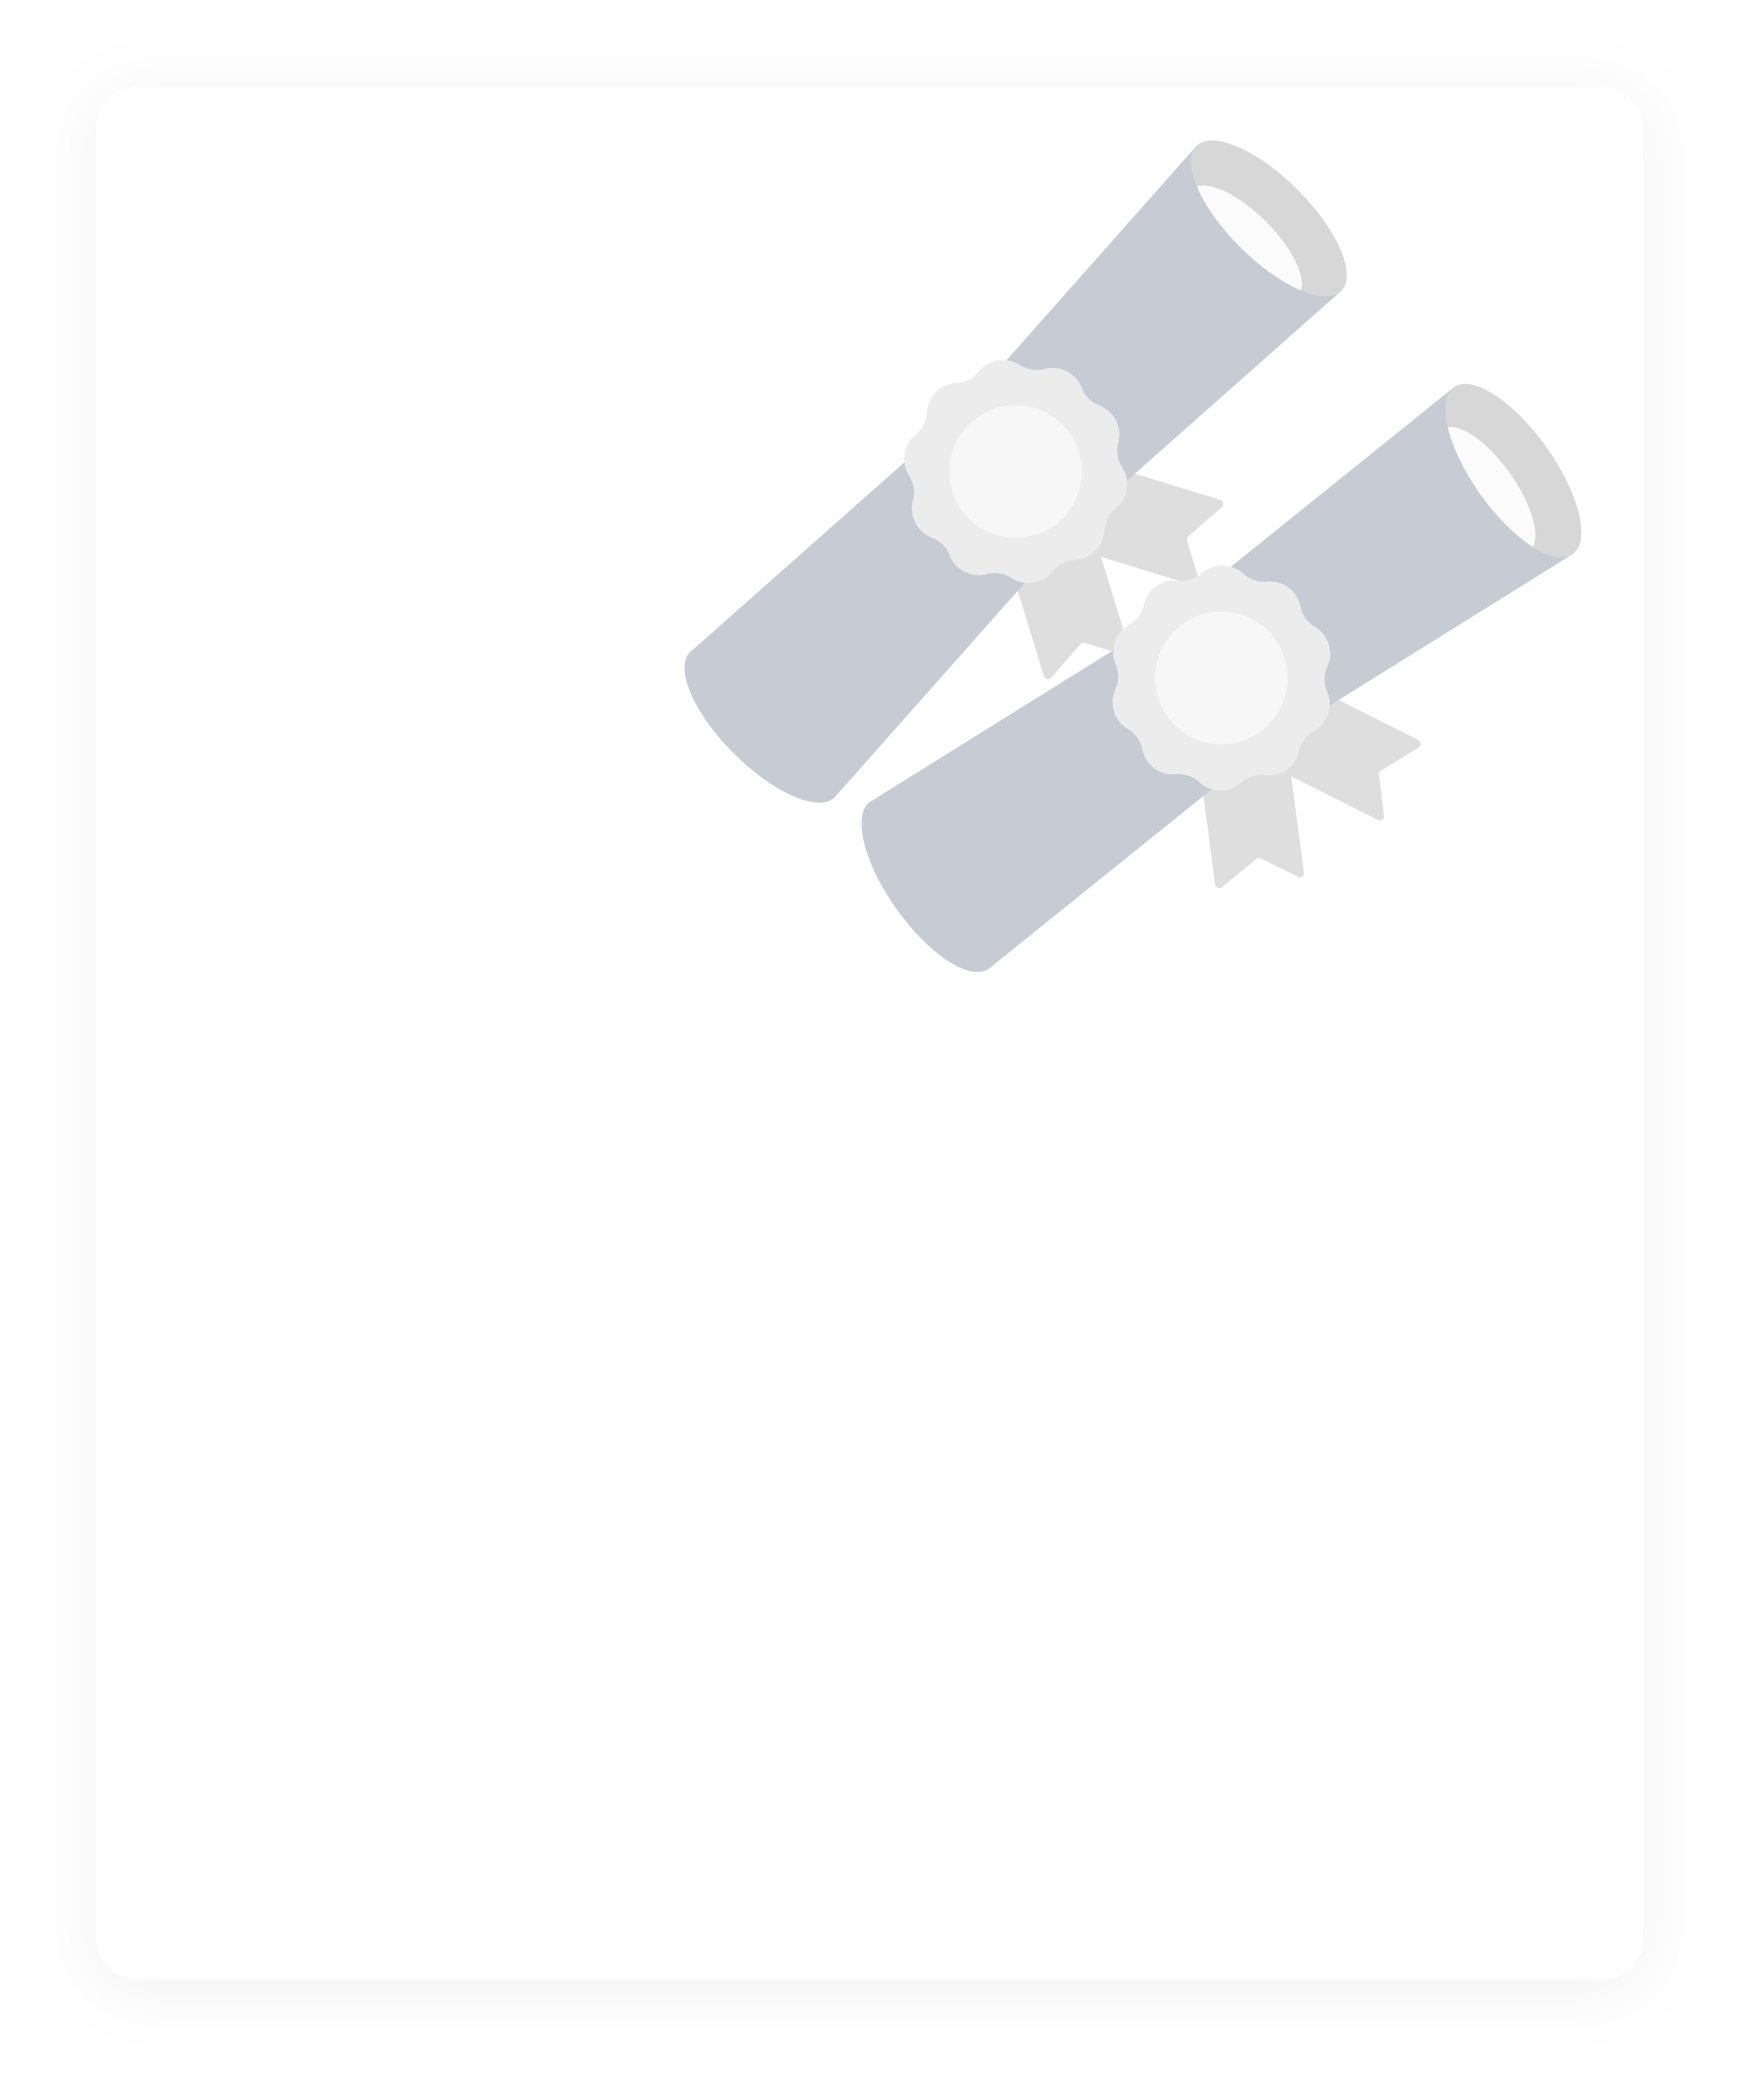
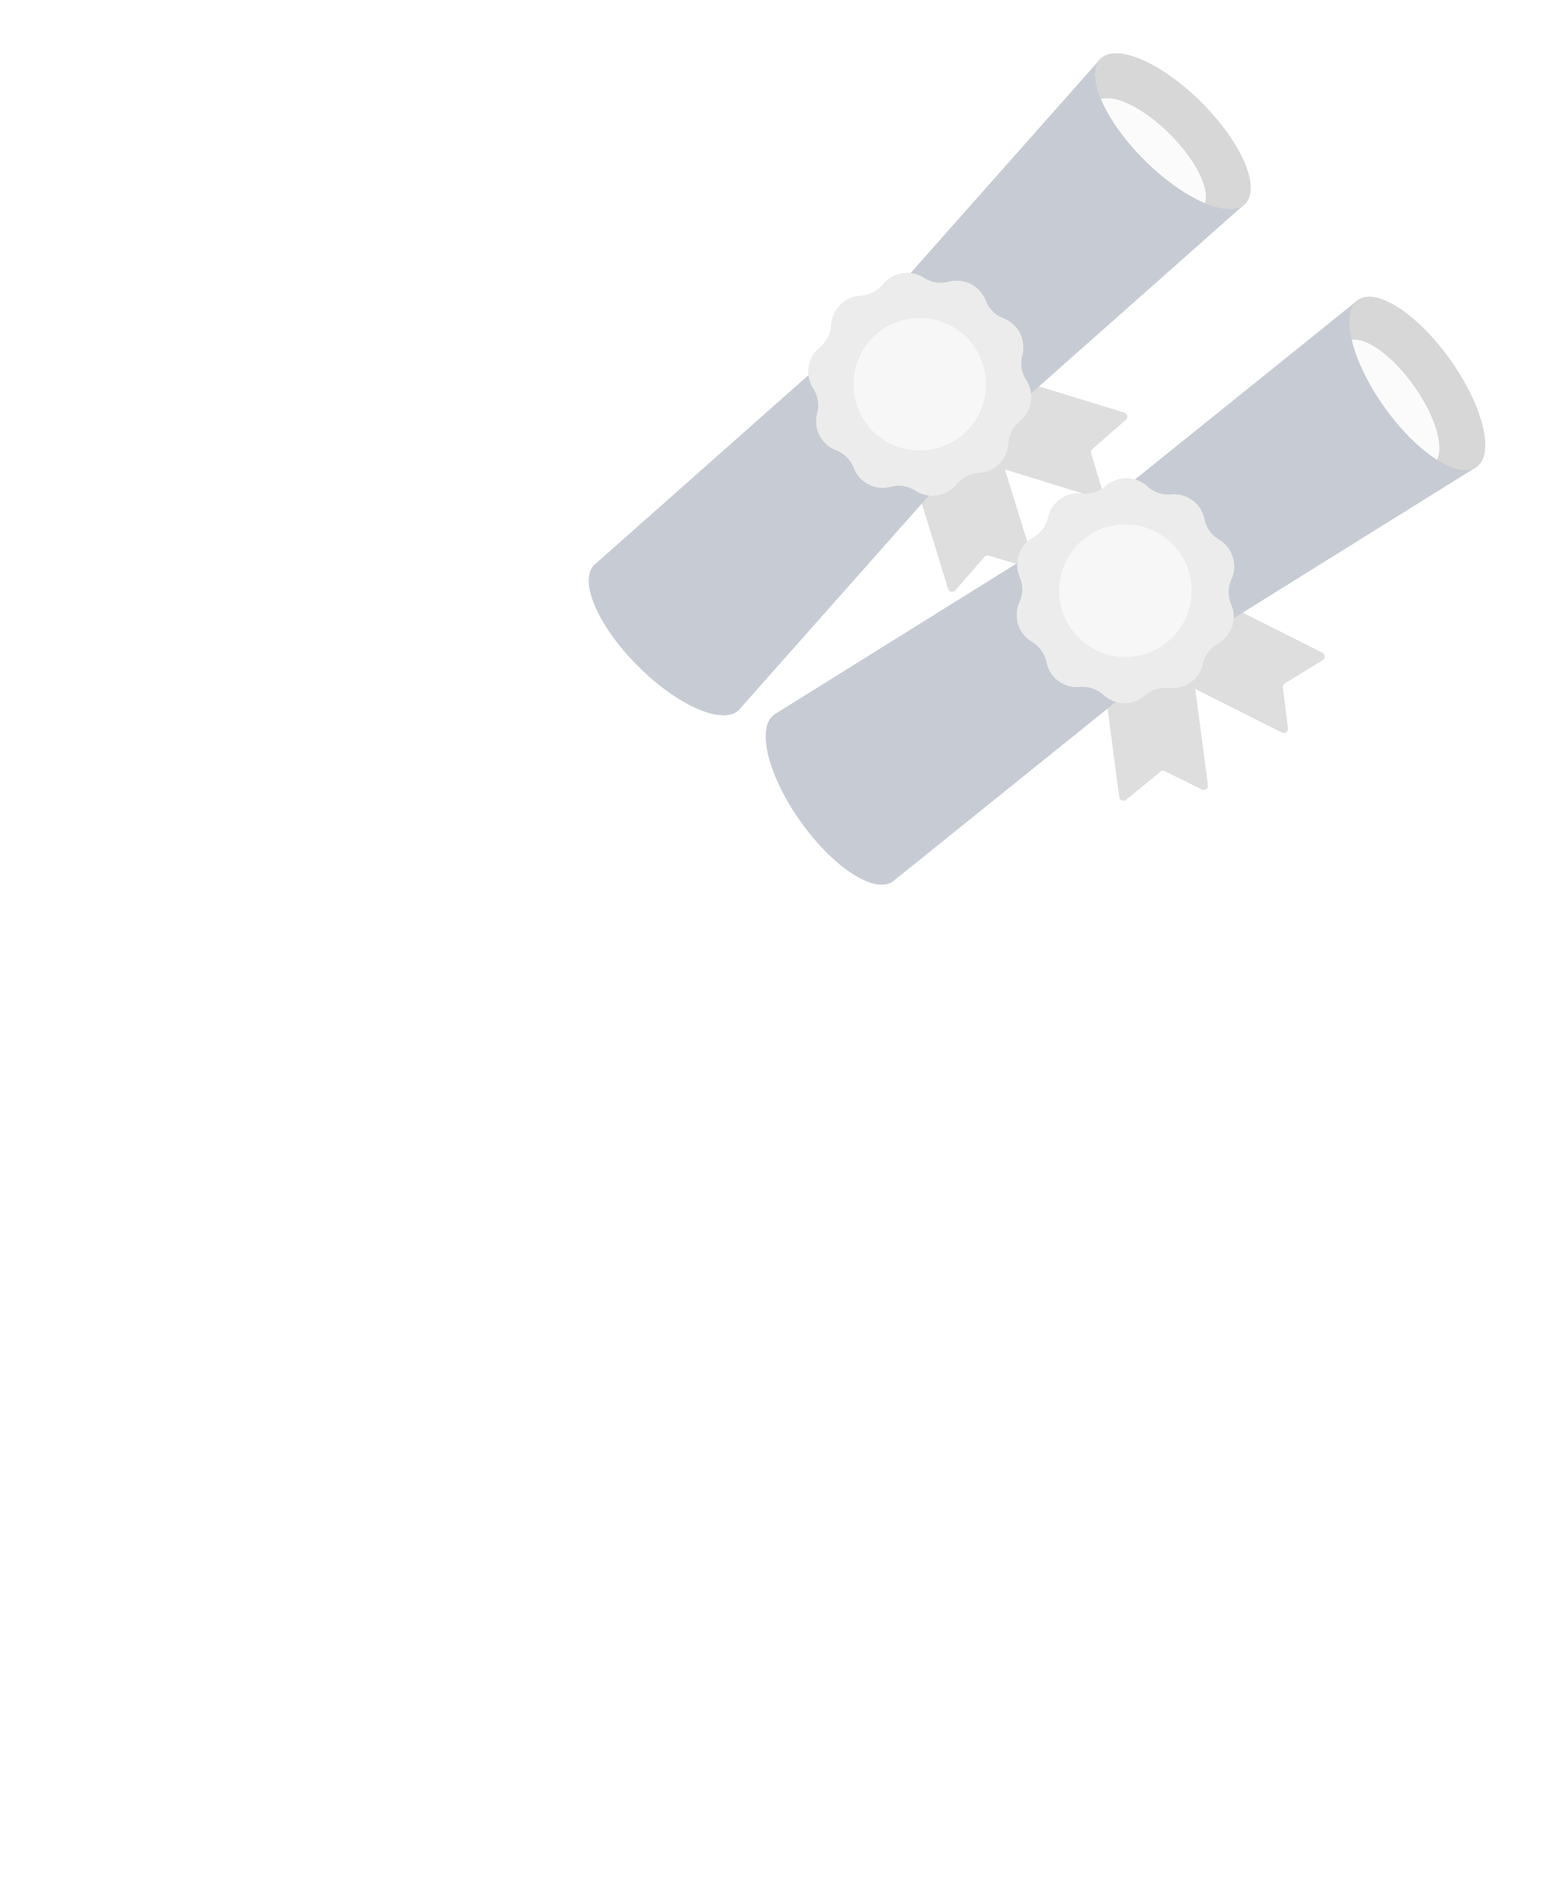
update media assets

diff --git a/lms/templates/index.html b/lms/templates/index.html
@@ -9,12 +9,7 @@ from django.urls import reverse
 from openedx.core.djangolib.markup import HTML, Text
 %>
 
-<!-- <link rel="preconnect" href="https://fonts.googleapis.com">
-<link rel="preconnect" href="https://fonts.gstatic.com" crossorigin>
-<link href="https://fonts.googleapis.com/css2?family=Barlow:ital,wght@0,100;0,200;0,300;0,400;0,500;0,600;0,700;0,800;0,900;1,100;1,200;1,300;1,400;1,500;1,600;1,700;1,800;1,900&family=Open+Sans:ital,wght@0,300..800;1,300..800&family=Work+Sans:ital,wght@0,100..900;1,100..900&display=swap" rel="stylesheet"> -->
 
-<!-- STYLE  -->
-<!-- https://xd.adobe.com/view/f988e995-7514-4c22-a878-009f239cff37-acdb/variables/ -->
 <style>
   :root {
     --primary: #008BCB;
@@ -122,7 +117,7 @@ from openedx.core.djangolib.markup import HTML, Text
     border-radius: 5px;
     font-weight: 700;
   }
- 
+
 
 /* Section 2 */
   #section-2 {
@@ -189,6 +184,7 @@ from openedx.core.djangolib.markup import HTML, Text
     transition: background-image 0.6s ease, transform 0.6s ease, box-shadow 0.6s ease;
     color: white;
     font-size: 1.4rem;
+    border-radius: 10px;
   }
 
   .vignette-section-3:nth-child(2) {
@@ -222,7 +218,7 @@ from openedx.core.djangolib.markup import HTML, Text
     color: white;
     width: 48%;
     padding: 2rem 4rem ;
-    min-height: 1640px;
+    min-height: 1240px;
     border-radius: 0 100px 0 0;
     box-sizing: border-box;
     align-self: flex-end;
@@ -322,6 +318,7 @@ from openedx.core.djangolib.markup import HTML, Text
   .vignette-section-4:nth-child(2) a:hover {
     background-color: var(--tertiary);
   }
+
 
   @media screen and (max-width: 800px) {
 
@@ -445,7 +442,7 @@ from openedx.core.djangolib.markup import HTML, Text
           </ul>
         </div>
         
-        <a class="btn register-btn" href="/register?course_id=course-v1%3Asncf-voyageurs%2BDC2%2B2024&enrollment_action=enroll">Commencer la découverte métier <span style="font-weight: 900;">flash</span></a>
+        <a class="btn register-btn" href="/register?course_id=course-v1%3Asncf-voyageurs%2BDC2%2B2024&enrollment_action=enroll">Commencer la découverte métier <span style="font-weight:900;">flash</span></a>
       </div>
 
       <div class="vignette-section-4 vertical-align space-between">
@@ -467,7 +464,7 @@ from openedx.core.djangolib.markup import HTML, Text
           </ol>
         </div>
         
-        <a class="btn register-btn" href="/register?course_id=course-v1%3Asncf-voyageurs%2BDC2%2B2024&enrollment_action=enroll">Commencer la découverte métier <span style="font-weight: 900;">approfondie</span></a>
+        <a class="btn register-btn" href="/register?course_id=course-v1%3Asncf-voyageurs%2BDC2%2B2024&enrollment_action=enroll">Commencer la découverte métier <span style="font-weight:900;">approfondie</span></a>
       </div>
 
     </div>
@@ -477,13 +474,13 @@ from openedx.core.djangolib.markup import HTML, Text
 
 
 <%block name="js_extra">
-   <script type="text/javascript">
-      $(window).load(function() {
-         if(getParameterByName('next')) {
-              $('#login').trigger("click");
-         }
-      })
-   </script>
+  <script type="text/javascript">
+    $(window).load(function() {
+      if(getParameterByName('next')) {
+        $('#login').trigger("click");
+      }
+    })
+  </script>
 </%block>
 
 % if show_signup_immediately is not UNDEFINED:
